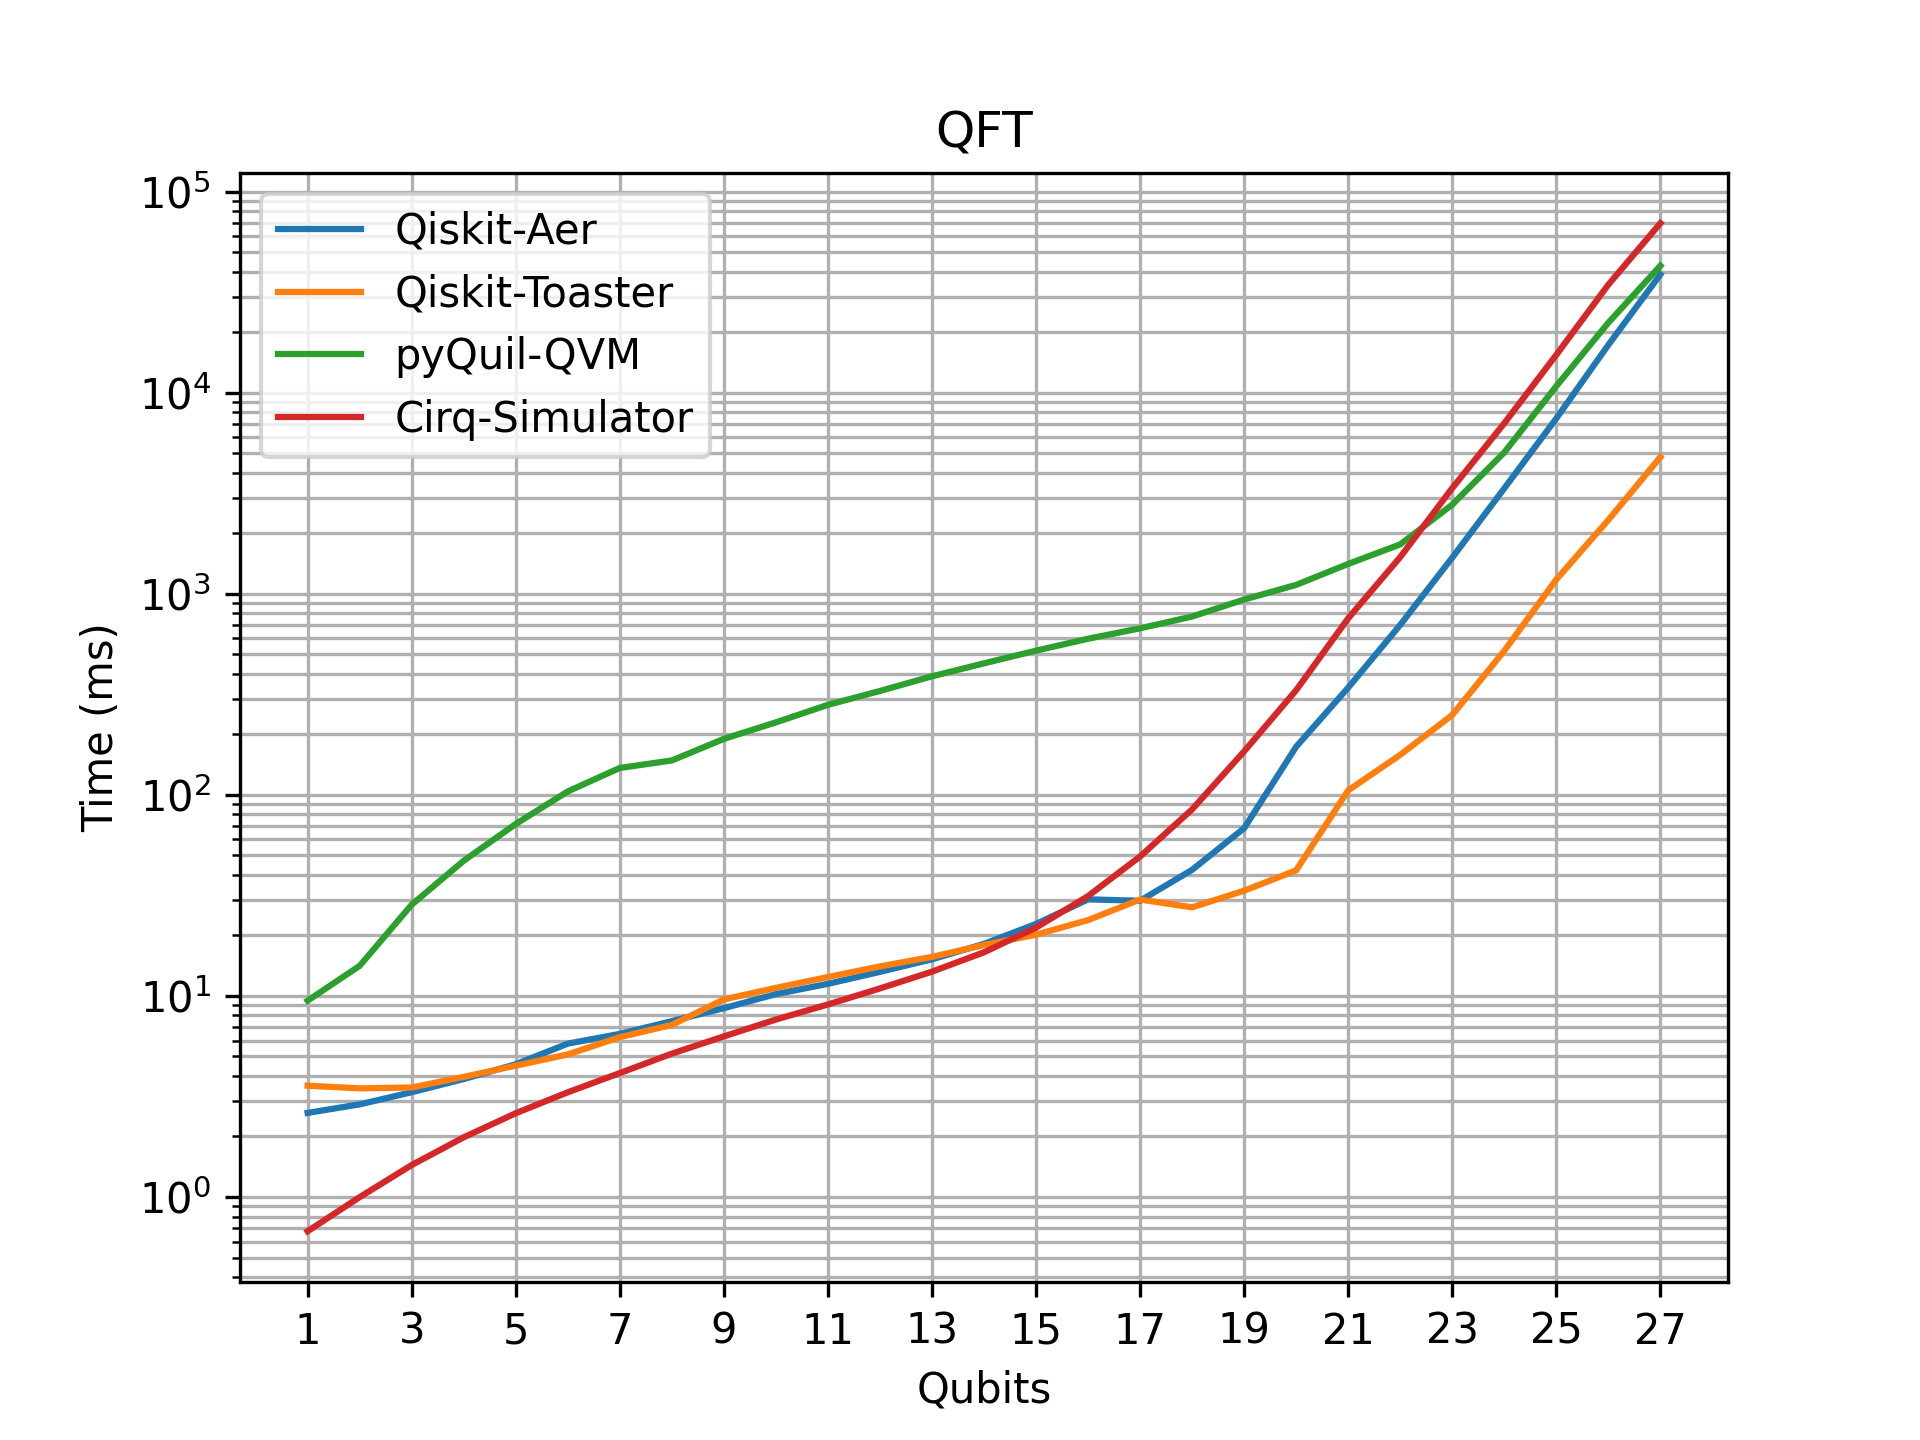
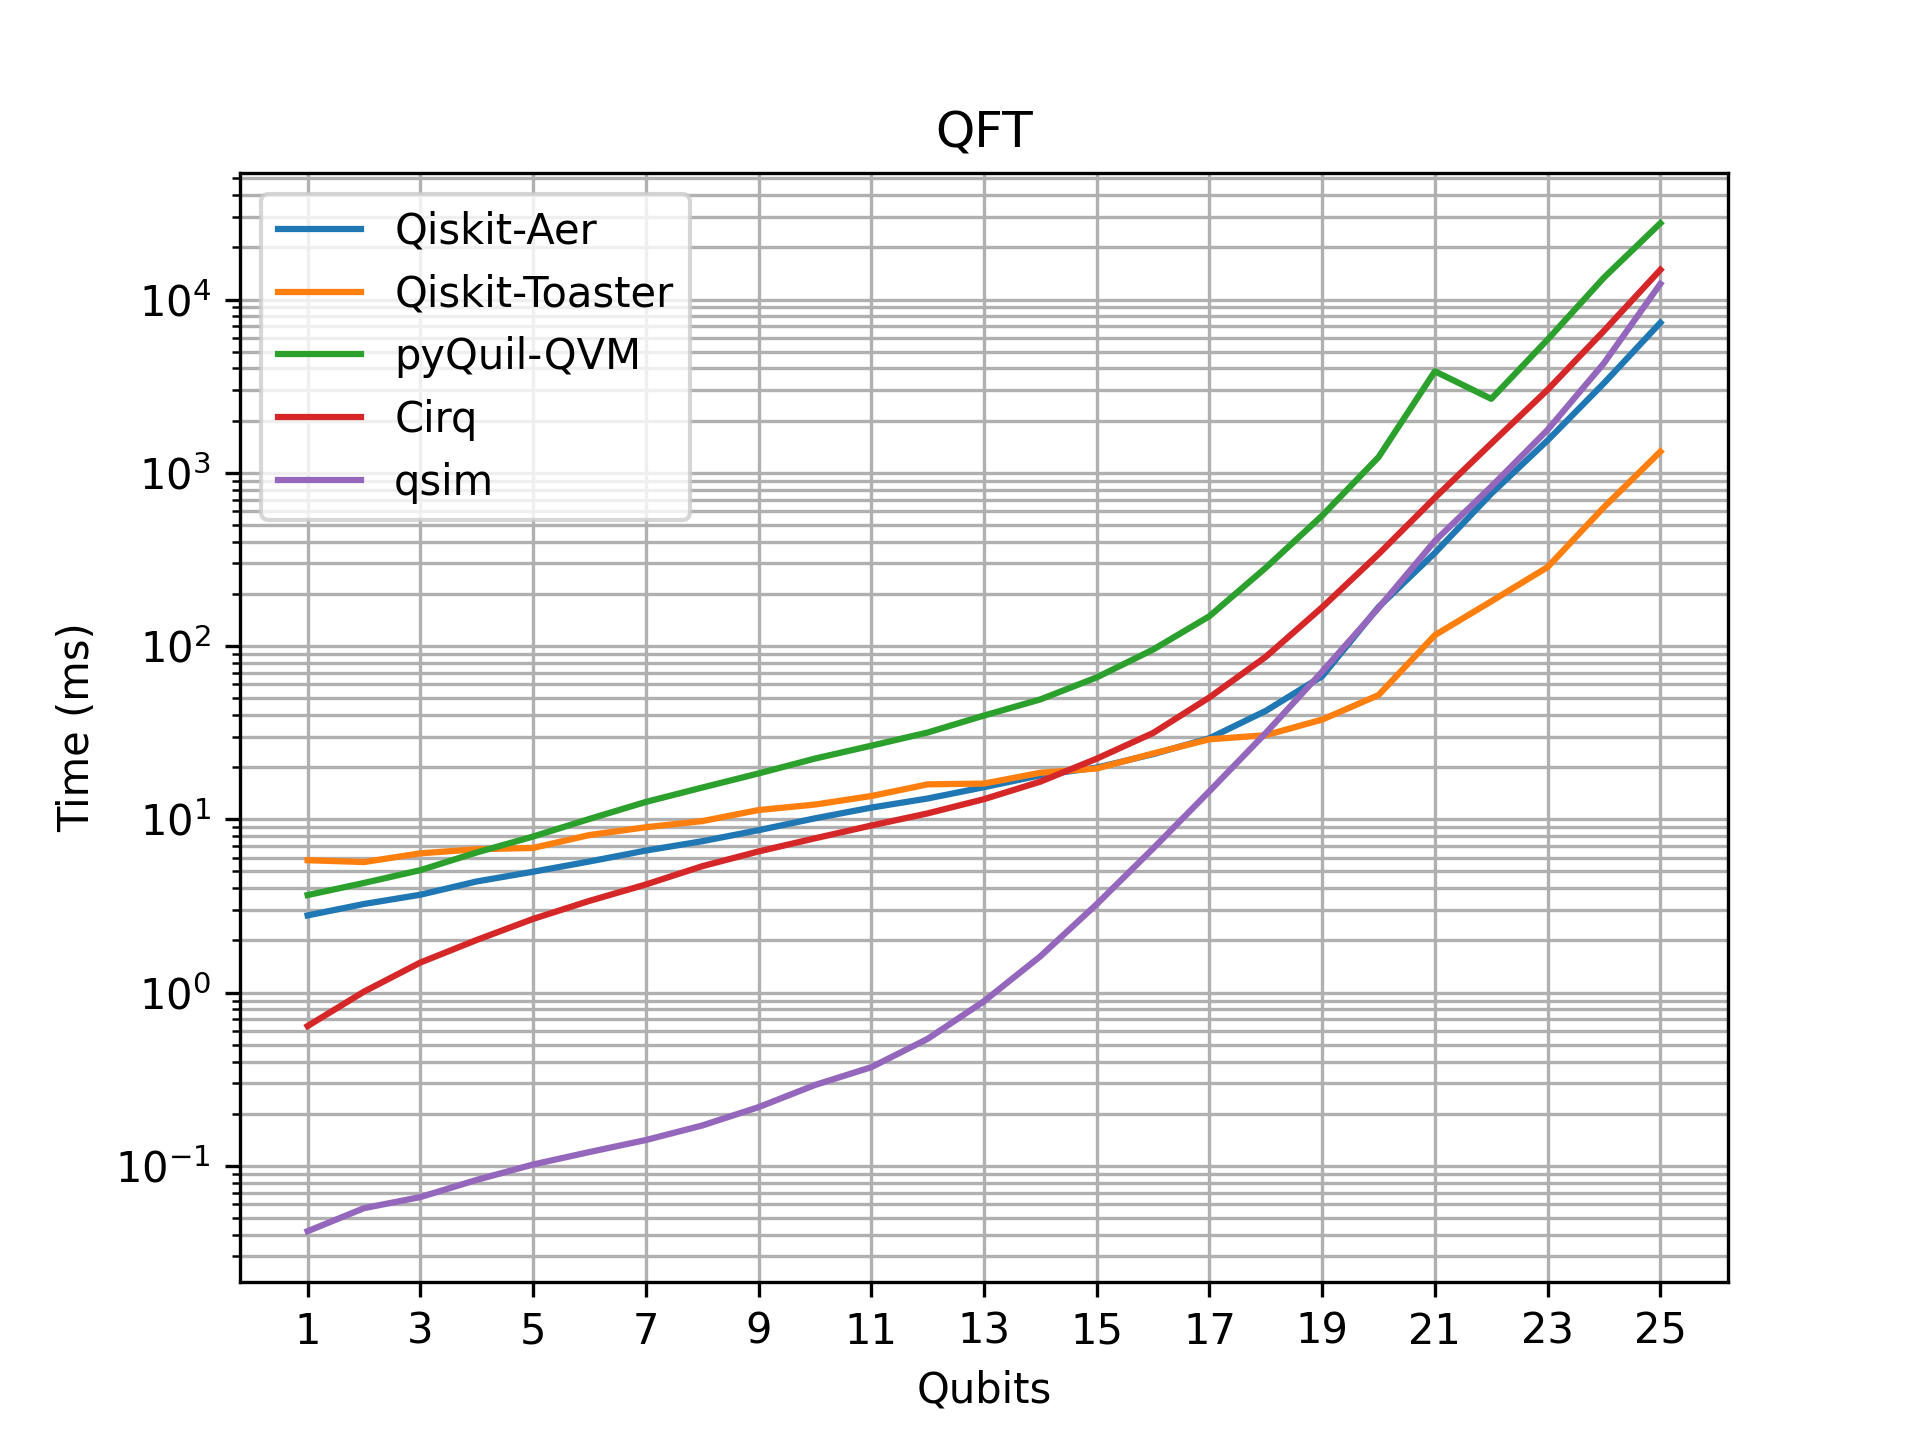
Added qsim

diff --git a/benchmark_qft.py b/benchmark_qft.py
@@ -18,6 +18,8 @@ from pyquil.gates import H, CPHASE, SWAP, MEASURE
 # Cirq
 import cirq
 
+# qsim
+from qsimcirq import qsim
 
 def qft_qiskit(n):
     qc = QuantumCircuit()
@@ -70,6 +72,27 @@ def qft_cirq(n):
     circ = cirq.Circuit(gates)
 
     return circ
+
+
+def qft_qsim(n):
+
+    qsim_c = str(n) + "\n"
+
+    t = 0
+    for j in range(n):
+        for k in range(j):
+            qsim_c += str(t) + " cp " + str(j) + " " + str(k) + " " + str(math.pi/float(2**(j-k))) + "\n"
+            t += 1
+        qsim_c += str(t) + " h " + str(j) + "\n"
+        t += 1
+
+    # No measurement gate...
+    # for i in range(n):
+    #     qsim_c += str(t) + " m " + str(i) + "\n"
+        
+    qsim_c += "\n"
+
+    return qsim_c
 
 
 def benchmark_qft_qiskit(from_qubits, to_qubits, results):
@@ -143,7 +166,7 @@ def benchmark_qft_pyquil(from_qubits, to_qubits, results):
 def benchmark_qft_cirq(from_qubits, to_qubits, results):
     gc.disable()
 
-    results["Cirq-Simulator"] = np.nan
+    results["Cirq"] = np.nan
 
     for i in range(from_qubits, to_qubits + 1):
         simulator = cirq.Simulator()
@@ -161,7 +184,38 @@ def benchmark_qft_cirq(from_qubits, to_qubits, results):
             result = simulator.run(circ, repetitions=1)
             elapsed_time = (time.time() - start_time) * 1000
             cirq_time = elapsed_time if np.isnan(cirq_time) else min(cirq_time, elapsed_time)
-        results["Cirq-Simulator"][i] = cirq_time
+        results["Cirq"][i] = cirq_time
+
+    gc.enable()
+
+
+def benchmark_qft_qsim(from_qubits, to_qubits, results):
+    gc.disable()
+
+    results["qsim"] = np.nan
+
+    for i in range(from_qubits, to_qubits + 1):
+        simulator = cirq.Simulator()
+
+        circ = qft_qsim(i)
+        qsim_options = {
+            "c": circ,
+            "i": "",
+            "t": 1,
+            "v": 0
+        }
+
+        # Repeat multiple times for small number of qubits and get best time
+        repeat = 4 if i <= 20 else 1
+
+        qsim_time = np.nan
+        for r in range(repeat):
+            gc.collect()
+            start_time = time.time()
+            result = qsim.qsim_simulate(qsim_options)
+            elapsed_time = (time.time() - start_time) * 1000
+            qsim_time = elapsed_time if np.isnan(qsim_time) else min(qsim_time, elapsed_time)
+        results["qsim"][i] = qsim_time
 
     gc.enable()
 
@@ -177,6 +231,9 @@ def benchmark_qft(from_qubits, to_qubits):
 
     # Cirq
     benchmark_qft_cirq(from_qubits, to_qubits, results)
+
+    # qsim
+    benchmark_qft_qsim(from_qubits, to_qubits, results)
 
     print(results)
 
